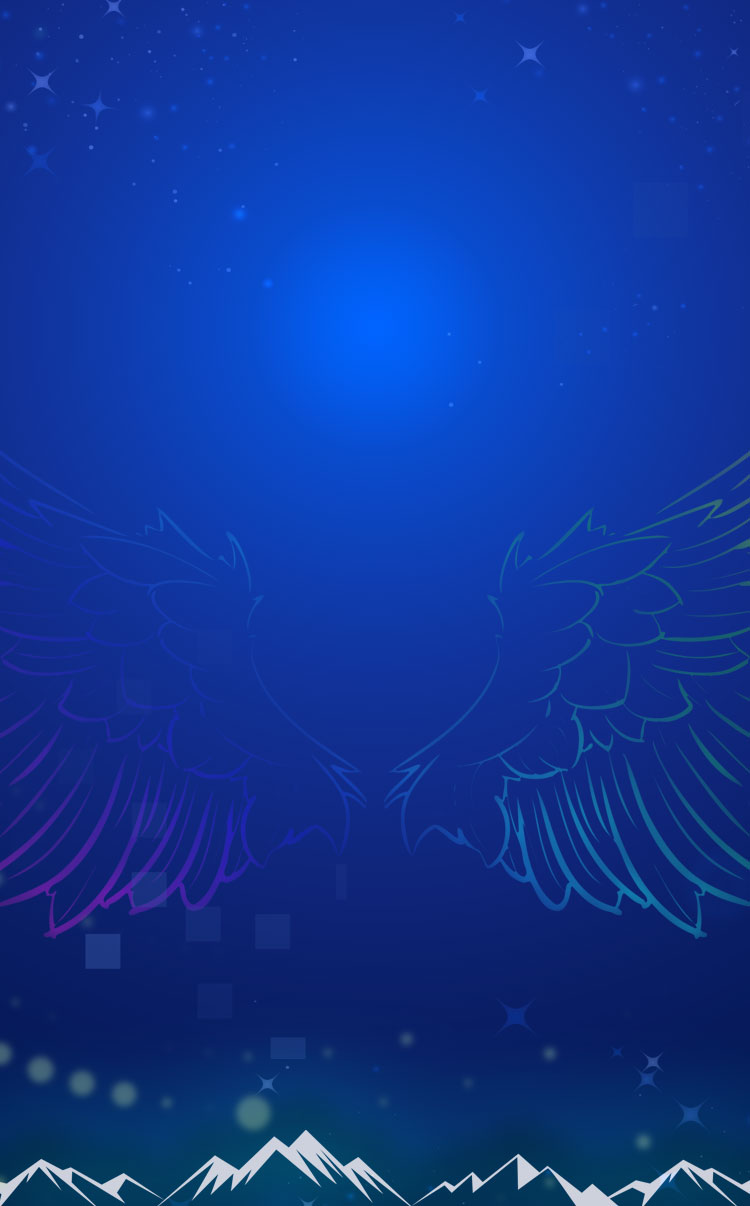
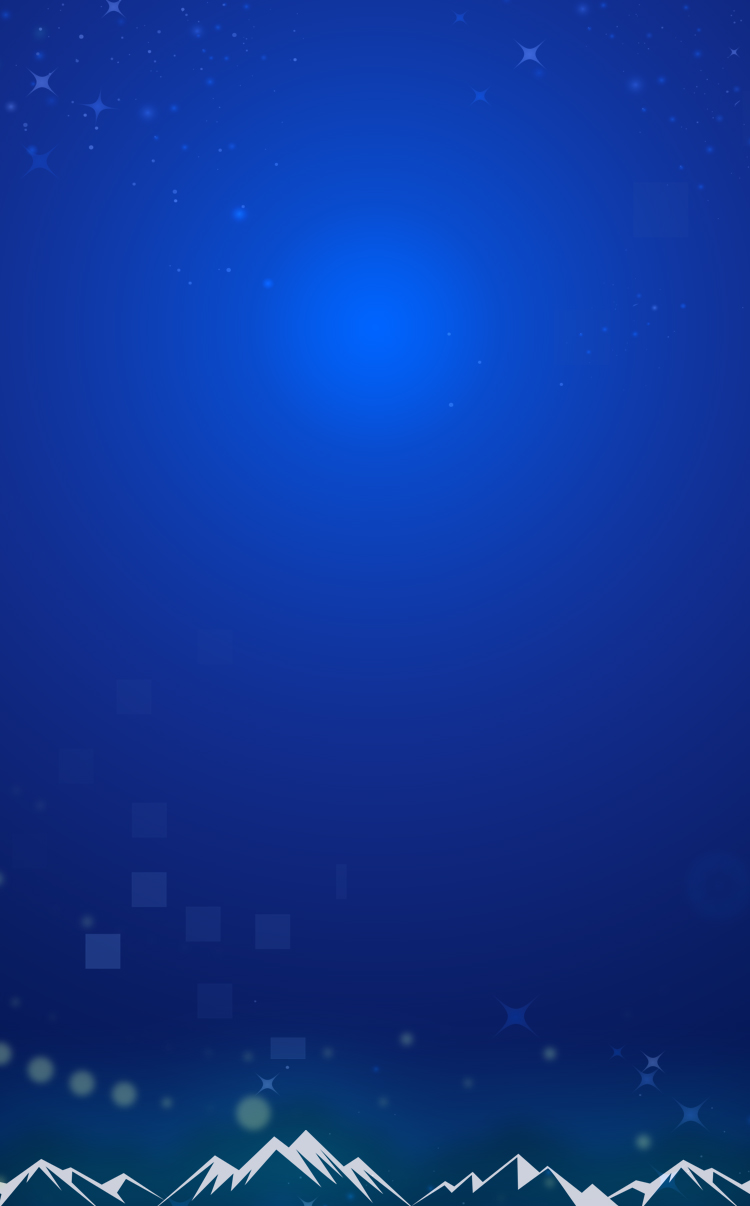
'six'

diff --git a/money/css/ani.css b/money/css/ani.css
@@ -174,3 +174,138 @@
 #page05 .five_8{
     animation: fadeInDown .5s ease-out 3.9s both;
 }
+/* 自定义旋转 */
+@keyframes rotateZjl {
+    from {
+        opacity: 0;
+        -webkit-transform: scale3d(.1, .1, .1) translate3d(0, -1000px, 0);
+        transform: scale3d(.1, .1, .1) translate3d(0, -1000px, 0);
+        -webkit-animation-timing-function: cubic-bezier(0.550, 0.055, 0.675, 0.190);
+        animation-timing-function: cubic-bezier(0.550, 0.055, 0.675, 0.190);
+    }
+
+    60% {
+        opacity: 1;
+        -webkit-transform: scale3d(.475, .475, .475) translate3d(0, 60px, 0);
+        transform: scale3d(.475, .475, .475) translate3d(0, 60px, 0);
+        -webkit-animation-timing-function: cubic-bezier(0.175, 0.885, 0.320, 1);
+        animation-timing-function: cubic-bezier(0.175, 0.885, 0.320, 1);
+    }
+    61%{
+         -webkit-transform: rotate(0);
+        transform: rotate(0);
+    }
+    to{
+        -webkit-transform: rotate(360deg);
+        transform: rotate(360deg);
+        opacity: 1;
+    }
+}
+@-webkit-keyframes rotateZjl {
+    from {
+        opacity: 0;
+        -webkit-transform: scale3d(.1, .1, .1) translate3d(0, -1000px, 0);
+        transform: scale3d(.1, .1, .1) translate3d(0, -1000px, 0);
+        -webkit-animation-timing-function: cubic-bezier(0.550, 0.055, 0.675, 0.190);
+        animation-timing-function: cubic-bezier(0.550, 0.055, 0.675, 0.190);
+    }
+
+    60% {
+        opacity: 1;
+        -webkit-transform: scale3d(.475, .475, .475) translate3d(0, 60px, 0);
+        transform: scale3d(.475, .475, .475) translate3d(0, 60px, 0);
+        -webkit-animation-timing-function: cubic-bezier(0.175, 0.885, 0.320, 1);
+        animation-timing-function: cubic-bezier(0.175, 0.885, 0.320, 1);
+       
+        
+    }
+    61%{
+        -webkit-transform: rotate(0);
+        transform: rotate(0);
+    }
+    to{
+        -webkit-transform: rotate(360deg);
+        transform: rotate(360deg);
+        opacity: 1;
+    }
+}
+.rotateZjl {
+    -webkit-animation-name: rotateZjl;
+    animation-name: rotateZjl;
+}
+/* page06 */
+#page06 .six_title1{
+    animation: fadeInDown .5s ease-out .5s both;
+}
+#page06 .six_yuan8{
+    animation: rotateZjl 1.5s linear .8s both;
+}
+#page06 .six_yuan{
+     animation: fadeIn .3s linear 2.4s both;
+}
+#page06 .six_yuan1{
+     animation: fadeIn .3s linear 2.5s both;
+}
+#page06 .six_yuan2{
+     animation: fadeIn .3s linear 2.7s both;
+}
+#page06 .six_yuan3{
+     animation: fadeIn .3s linear 2.9s both;
+}
+#page06 .six_yuan4{
+     animation: fadeIn .3s linear 3.1s both;
+}
+#page06 .six_yuan5{
+     animation: fadeIn .3s linear 3.3s both;
+}
+#page06 .six_yuan6{
+     animation: fadeIn .3s linear 3.5s both;
+}
+#page06 .six_yuan7{
+     animation: fadeIn .3s linear 3.7s both;
+}
+#page06 .six_title2{
+    animation: fadeInDown .5s ease-out 3.9s both;
+}
+#page06 .six_flower{
+    animation: fadeInDown .5s ease-out 4.1s both;   
+}
+#page06 .six_flower1{
+    animation: fadeIn .3s linear 4.3s both;   
+}
+#page06 .six_flower2{
+    animation: fadeIn .3s linear 4.5s both;   
+}
+#page06 .six_flower3{
+    animation: fadeIn .3s linear 4.7s both;   
+}
+#page06 .six_flower4{
+    animation: fadeIn .3s linear 4.9s both;   
+}
+#page06 .six_flower5{
+    animation: fadeIn .3s linear 5.1s both;   
+}
+#page06 .six_flower6{
+    animation: fadeIn .3s linear 5.3s both;   
+}
+#page06 .six_title3{
+    animation: fadeInDown .3s ease-out 5.5s both;   
+}
+#page06 .six_change{
+     animation: fadeIn .5s ease-out 4.3s both;   
+}
+#page06 .six_change1{
+    animation: fadeIn .3s linear 4.55s both;   
+}
+#page06 .six_change2{
+    animation: fadeIn .3s linear 4.8s both;   
+}
+#page06 .six_change3{
+    animation: fadeIn .3s linear 5.05s both;   
+}
+#page06 .six_change4{
+    animation: fadeIn .3s linear 5.3s both;   
+}
+#page06 .six_title4{
+    animation: fadeInDown .3s ease-out 5.5s both;   
+}

diff --git a/money/index.html b/money/index.html
@@ -9,6 +9,7 @@
     <link rel="stylesheet" href="https://cdn.staticfile.org/Swiper/3.4.2/css/swiper.min.css">
     <link rel="stylesheet" href="css/index.css">
     <link rel="stylesheet" href="css/animate.css">
+    <link rel="" type="" href="css/zjlAnimate.css">
     <link rel="stylesheet" href="css/ani.css">
 
 </head>
@@ -44,6 +45,7 @@
 
             <div class="swiper-slide" id="firstPage">
                 <div class="one">
+                    <img class="wing" src="image/Wing.gif">
                     <img src="image/logo.png">
                     <img class="one_title_zjl bgOpcity" src="image/one_title.png">
                     <p class="info info-2016 bgOpcity">2016年，东风日产正式发布面向2022年的品质中期战略<span class="redBold">[Q]+</span>,明确了达成一流品质的核心战略方案——“<span class="redBold">两突破</span>”、“

diff --git a/money/css/index.css b/money/css/index.css
@@ -29,6 +29,9 @@ html, body {
 .five img{
     opacity: 0;
 }
+.six img{
+    opacity: 0;
+}
 .arrow {
     position: absolute;
     bottom: 6%;
@@ -143,6 +146,16 @@ html, body {
     background-image: url(../image/one_bg.jpg);
     background-size: 100% 100%;
     background-repeat: no-repeat;
+    background-color: #05225e;
+    position: relative;
+}
+
+.wing {
+    position: absolute;
+    top: 4.5rem;
+    left: 0;
+    width: 100%;
+    height: auto;
 }
 
 .one img {
